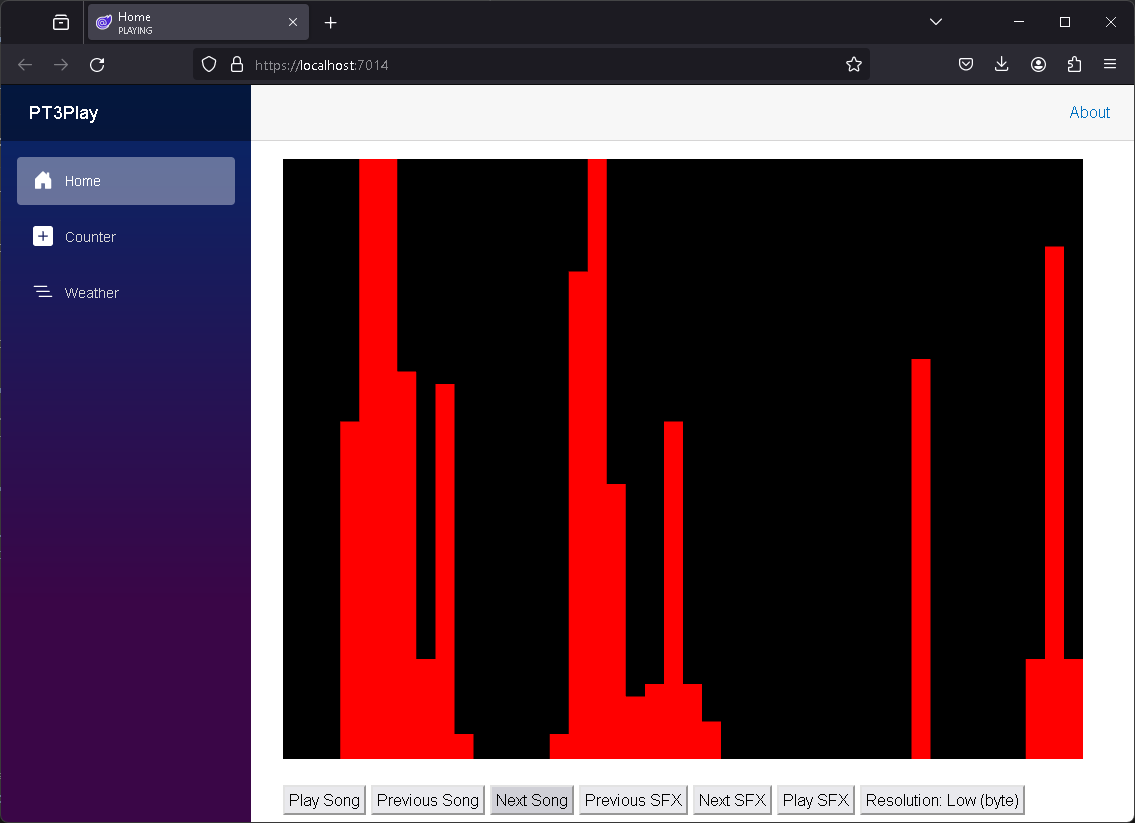
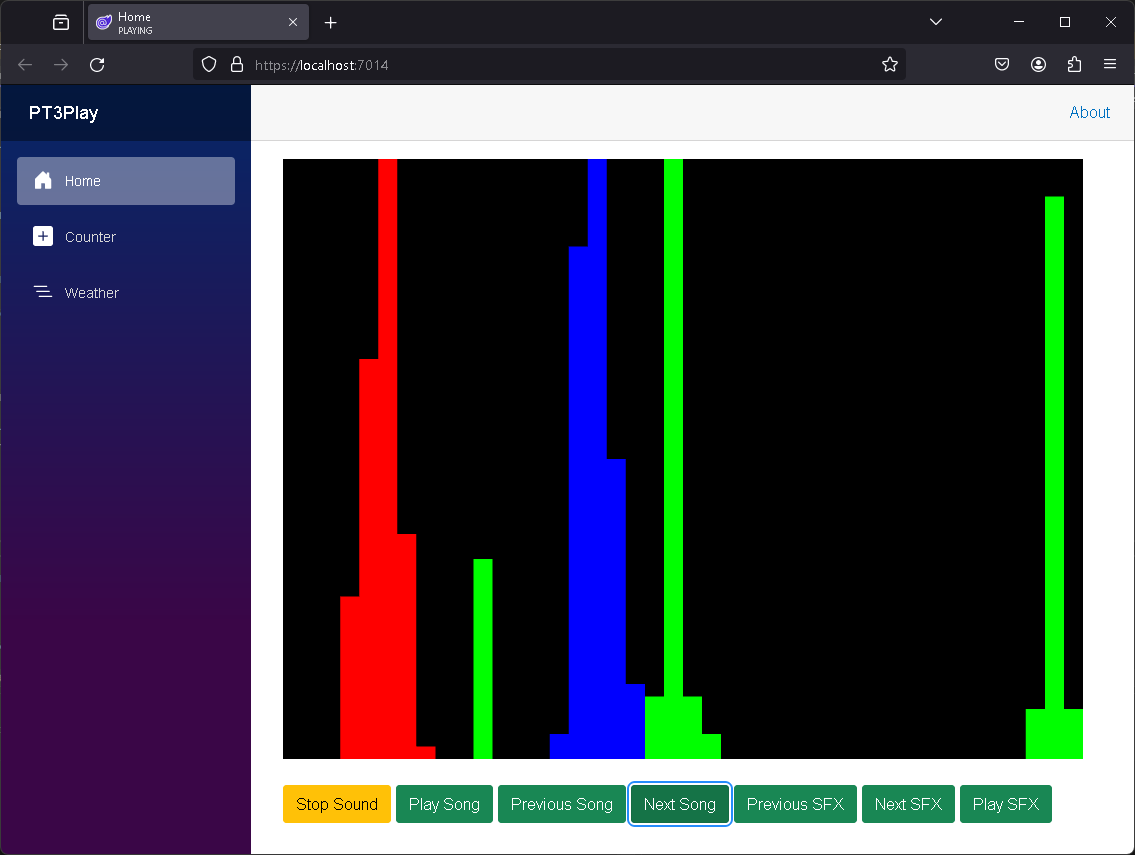
Color spectrum bars and nicer buttons

diff --git a/PT3PlayBlazor/WebGL.cs b/PT3PlayBlazor/WebGL.cs
@@ -84,41 +84,53 @@ namespace PT3PlayBlazor
 
             var uColorLocation = await Context.GetUniformLocationAsync(program, "uColor");
 
-            await Context.UniformAsync(uColorLocation, new float[] { 1.0f, 0.0f, 0.0f, 1.0f });
-
             float barWidth = (float)screenSize.Width / specLevels.Length;
             float barHeight = (float)screenSize.Height;
 
-            List<float> vertices = new List<float>();
-
-            for (int i = 0; i < specLevels.Length; i++)
+            for (int c = 0; c < specColors.Length; c++)
             {
-                float x1 = i * barWidth;
-                float x2 = (i + 1) * barWidth;
-                float y1 = barHeight - ((float)specLevels[i] / PT3Play.SPEC_HEIGHT) * barHeight;
-                float y2 = barHeight;
+                var color = specColors[c];
+                
+                List<float> vertices = new List<float>();
 
-                vertices.AddRange(new float[]
+                for (int i = 0; i < specLevels.Length; i++)
                 {
-                    x1, y1, 0.0f,
-                    x2, y1, 0.0f,
-                    x2, y2, 0.0f
+                    if (specColors[i] == color)
+                    {
+                        float x1 = i * barWidth;
+                        float x2 = (i + 1) * barWidth;
+                        float y1 = barHeight - ((float)specLevels[i] / PT3Play.SPEC_HEIGHT) * barHeight;
+                        float y2 = barHeight;
+
+                        vertices.AddRange(new float[]
+                        {
+                            x1, y1, 0.0f,
+                            x2, y1, 0.0f,
+                            x2, y2, 0.0f
+                        });
+
+                        vertices.AddRange(new float[]
+                        {
+                            x1, y1, 0.0f,
+                            x2, y2, 0.0f,
+                            x1, y2, 0.0f
+                        });
+                    }
+                }
+
+                await Context.UniformAsync(uColorLocation, new float[]
+                {
+                    ((color >> 16) & 0xFF) / 255.0f,
+                    ((color >> 8) & 0xFF) / 255.0f,
+                    (color & 0xFF) / 255.0f,
+                    1.0f
                 });
 
-                vertices.AddRange(new float[]
-                {
-                    x1, y1, 0.0f,
-                    x2, y2, 0.0f,
-                    x1, y2, 0.0f
-                });
+                await Context.BufferDataAsync(BufferType.ARRAY_BUFFER, vertices.ToArray(), BufferUsageHint.STATIC_DRAW);
+                await Context.VertexAttribPointerAsync(0, 3, DataType.FLOAT, false, 0, 0);
+                await Context.EnableVertexAttribArrayAsync(0);
+                await Context.DrawArraysAsync(Primitive.TRIANGLES, 0, vertices.Count / 3);
             }
-
-            await Context.BufferDataAsync(BufferType.ARRAY_BUFFER, vertices.ToArray(), BufferUsageHint.STATIC_DRAW);
-
-            await Context.VertexAttribPointerAsync(0, 3, DataType.FLOAT, false, 0, 0);
-            await Context.EnableVertexAttribArrayAsync(0);
-
-            await Context.DrawArraysAsync(Primitive.TRIANGLES, 0, vertices.Count / 3);
         }
 
         public static WebGLContext Context { get; set; }
